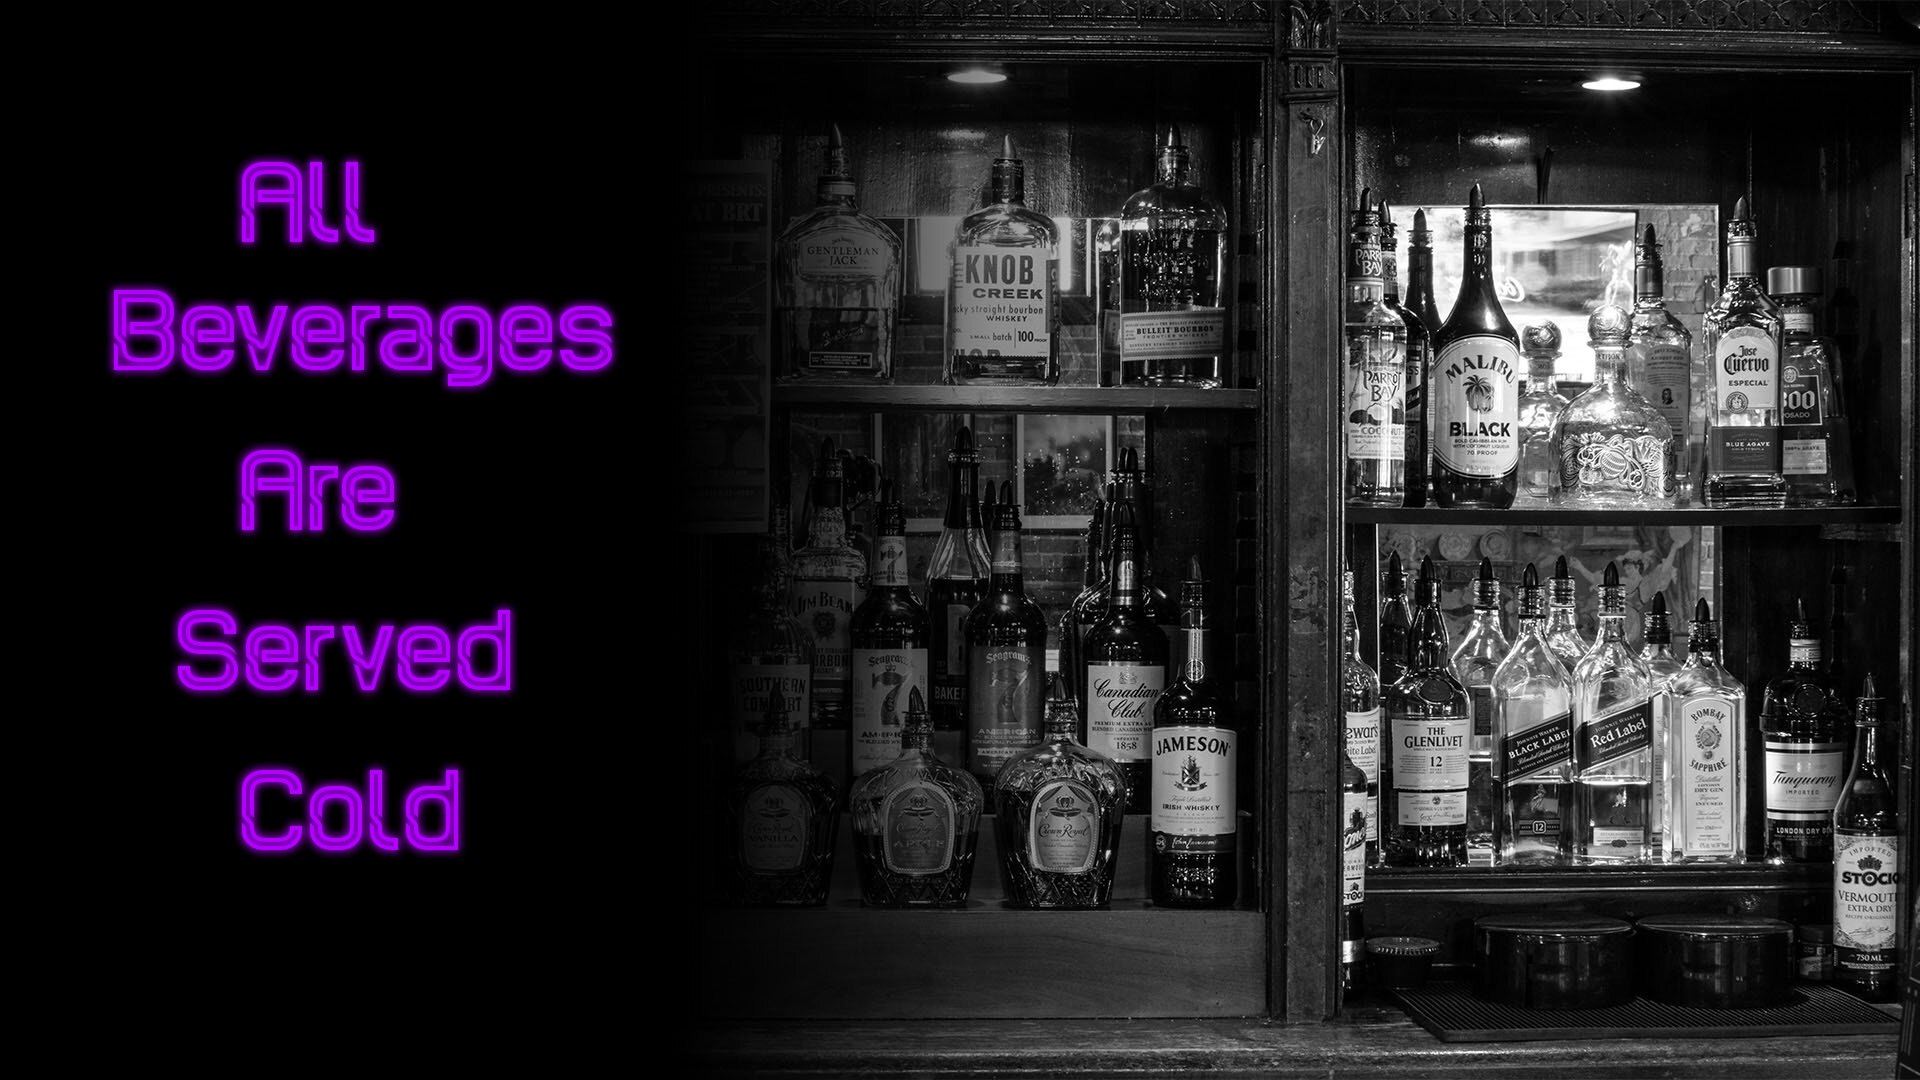
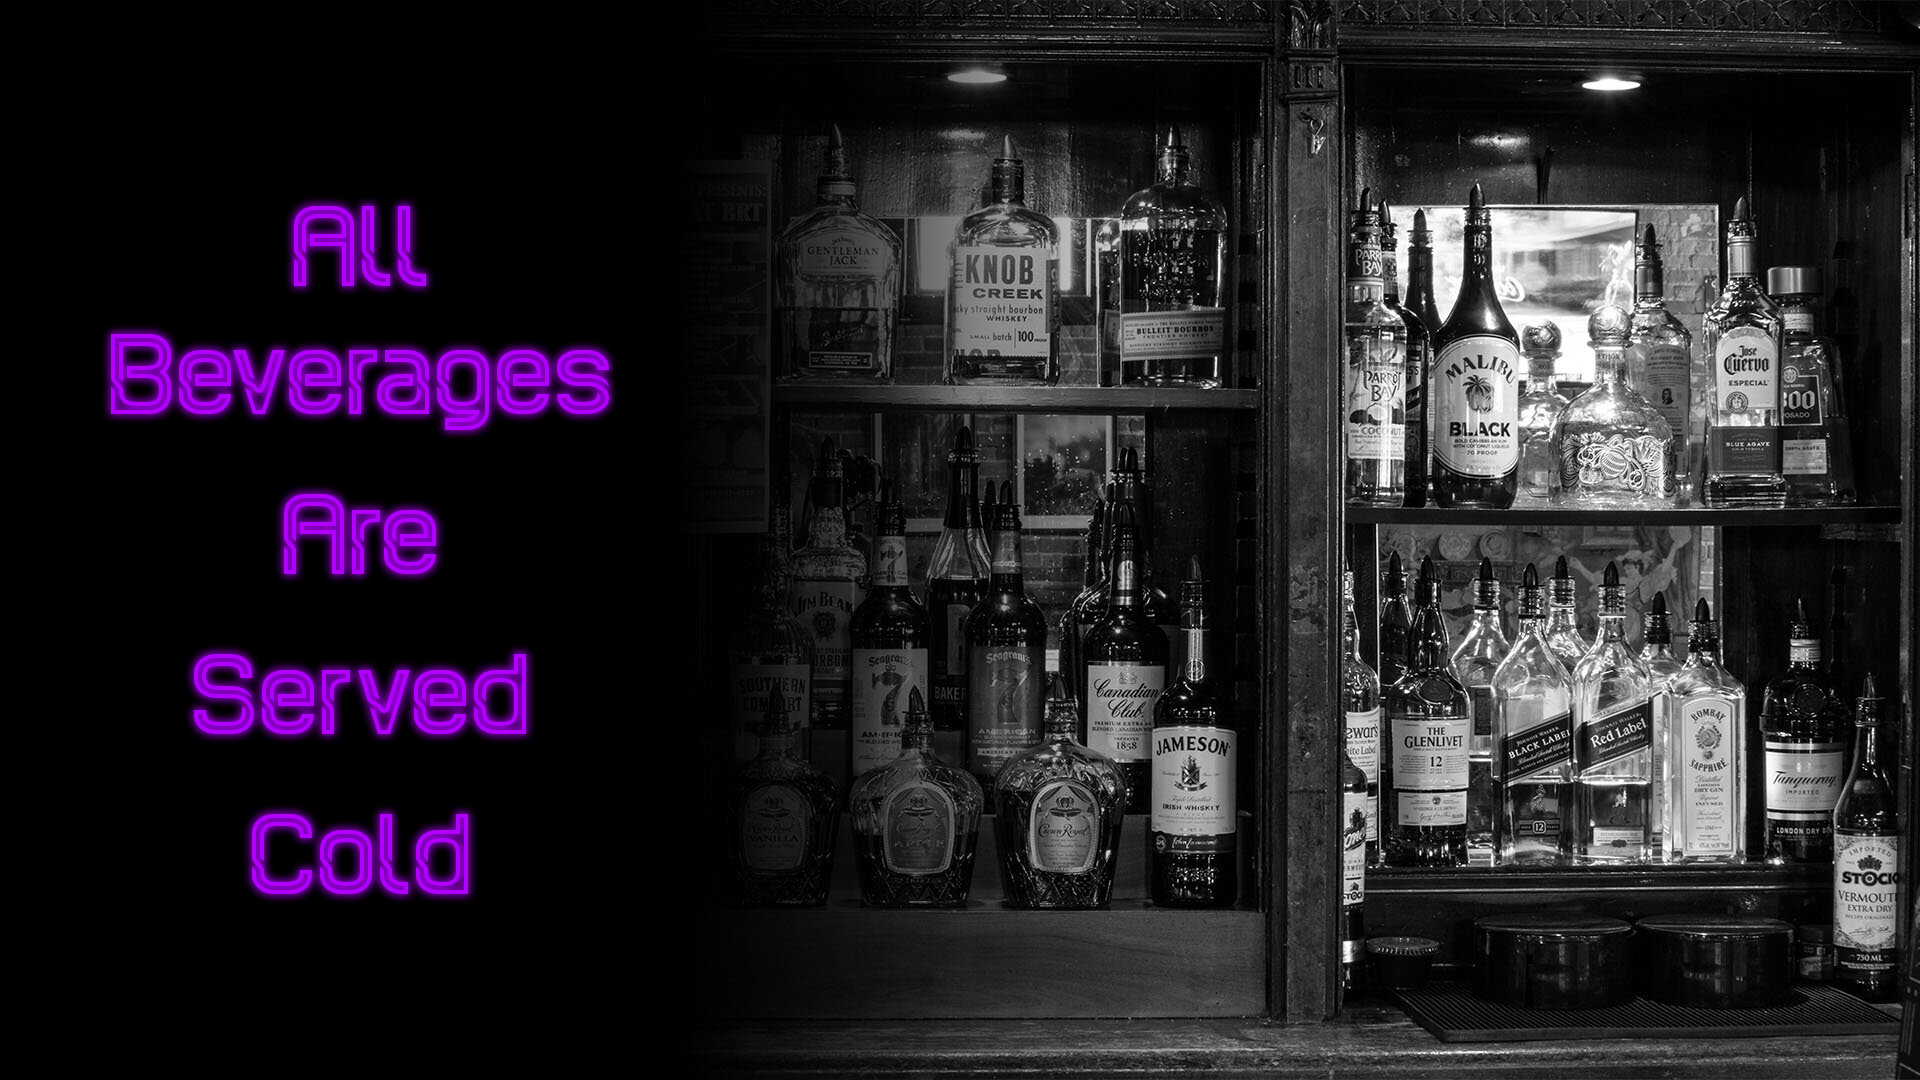
Text align support

Changed region(s): [[0.0312, 0.1222, 0.3438, 0.8556]]

diff --git a/main.go b/main.go
@@ -69,7 +69,7 @@ func main() {
 	scanner := bufio.NewScanner(f)
 	count := topMargin + 32
 	for scanner.Scan() {
-		dc.DrawString(scanner.Text(), float64(leftMargin), float64(topMargin+count))
+		drawString(dc, scanner.Text(), count)
 		count += 32
 	}
 
@@ -173,11 +173,31 @@ var bloomDilate float64
 var bloomGaussian float64
 var fontSize float64
 var bgImage string
+var textAlign string
 
 func exitOnError(err error) {
 	if err != nil {
 		fmt.Sprintf("Error: %v\n", err)
 		os.Exit(1)
+	}
+}
+
+func drawString(dc *gg.Context, text string, count int) {
+	if textAlign != "" {
+		var textAlignV float64
+		switch textAlign {
+		case "center":
+			textAlignV = 0.5
+		case "right":
+			textAlignV = 1.0
+		case "left":
+			textAlignV = 0
+		default:
+			exitOnError(fmt.Errorf("invalid text alignment: %v", textAlign))
+		}
+		dc.DrawStringAnchored(text, float64(leftMargin), float64(topMargin+count), textAlignV, textAlignV)
+	} else {
+		dc.DrawString(text, float64(leftMargin), float64(topMargin+count))
 	}
 }
 
@@ -195,4 +215,5 @@ func init() {
 	flag.StringVar(&output, "output", "output.png", "PNG file to write")
 	flag.StringVar(&file, "file", "", "file with the text to render")
 	flag.StringVar(&rgb, "rgb", "178,0,255", "the RGB color to use")
+	flag.StringVar(&textAlign, "text-align", "", "Align the text (left, center, right)")
 }

diff --git a/README.md b/README.md
@@ -10,8 +10,9 @@ go install github.com/rubiojr/neon-status@latest
 
 ```
 neon-status --bloom-dilate 1 \
-            -margin-left 100 \
-            -margin-top 100 \
+            -text-align center \
+            -margin-left 350 \
+            -margin-top 80 \
             --width 1920 \
             --height 1080 \
             --font-size 96 \
